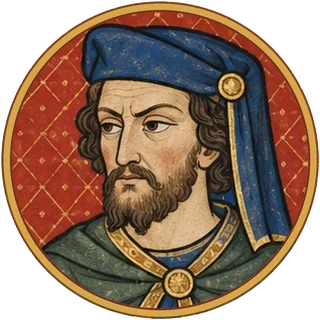
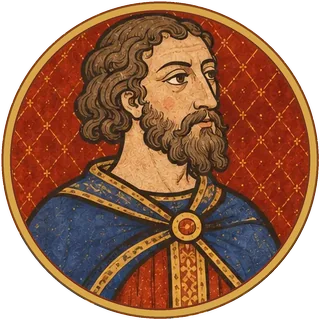
Портреты знати в манере ранней серии
Мессер Альдригетто — седой сеньор с мечом и гербом-львом; вместо шаперона XV века — бородатый сеньор;
вместо мультяшной дамы — девушка в венке. Новые: юноша в коифе, сеньор с гербом, девушка в венке с книгой,
дамы в венце и барбете. Сеньоров теперь пять лиц, дам — семь.

Claude-Session: https://claude.ai/code/session_01MqgnySWfdMW4H8wgNmTMfN

diff --git a/js/windows.js b/js/windows.js
@@ -71,8 +71,8 @@ const PORTRAITS = {
   town_f: ['town_f1', 'town_f2', 'town_f3', 'town_f4', 'town_f5', 'town_f7'],
   merchant_m: ['merchant', 'town_m5'],   // купец — и старый, в худе и с кошелём
   merchant_f: ['town_f3'],               // купчиха — в богатом уборе
-  noble_m: ['noble_m1', 'noble_m2', 'noble_m3'],
-  noble_f: ['noble_f1', 'noble_f2', 'noble_f3', 'noble_f4'],
+  noble_m: ['noble_m1', 'noble_m2', 'noble_m3', 'noble_m4', 'noble_m5'],
+  noble_f: ['noble_f1', 'noble_f2', 'noble_f3', 'noble_f4', 'noble_f5', 'noble_f6', 'noble_f7'],
   pagan_m: ['pagan_m1', 'pagan_m2', 'pagan_m3', 'pagan_m4'],
   pagan_f: ['pagan_f1', 'pagan_f2', 'pagan_f3', 'pagan_f4'],
   saracen_m: ['saracen_m1', 'saracen_m2'],

diff --git a/tools/portraits.py b/tools/portraits.py
@@ -35,6 +35,11 @@ JOBS = [   # серия XIII века: (лист, {имя: рамка круга
     # Вооружённые люди (взамен румяных): юноша-крестоносец, седой ветеран с топором, арбалетчик, воин со шрамом.
     ('30.webp', {'armed_cross': (220, 4, 720, 504), 'armed_vet': (806, 4, 1308, 502), 'armed_xbow': (212, 508, 714, 1012),
                  'armed_militia': (808, 508, 1316, 1016)}, 4),
+    # Знать (по образцу ранней серии): с прошлой попытки — седой сеньор с мечом и девушка в венке с книгой;
+    # со второй — бородатый сеньор, юноша в коифе, сеньор с гербом-львом; дама в короне и барбете, девушка в венке, дама в венце.
+    ('31.webp', {'noble_m1': (522, 8, 1012, 498), 'noble_f5': (1022, 510, 1508, 998)}, 4),
+    ('32.webp', {'noble_m3': (16, 8, 500, 500), 'noble_m4': (520, 8, 1012, 500), 'noble_m5': (1028, 8, 1516, 500),
+                 'noble_f6': (16, 508, 500, 1000), 'noble_f1': (520, 508, 1006, 1000), 'noble_f7': (1028, 508, 1512, 1000)}, 4),
 ]
 # ONLY=26.webp,27.webp — нарезать лишь эти листы (остальные исходники могут лежать в другом месте).
 ONLY = [x for x in os.environ.get('ONLY', '').split(',') if x]
